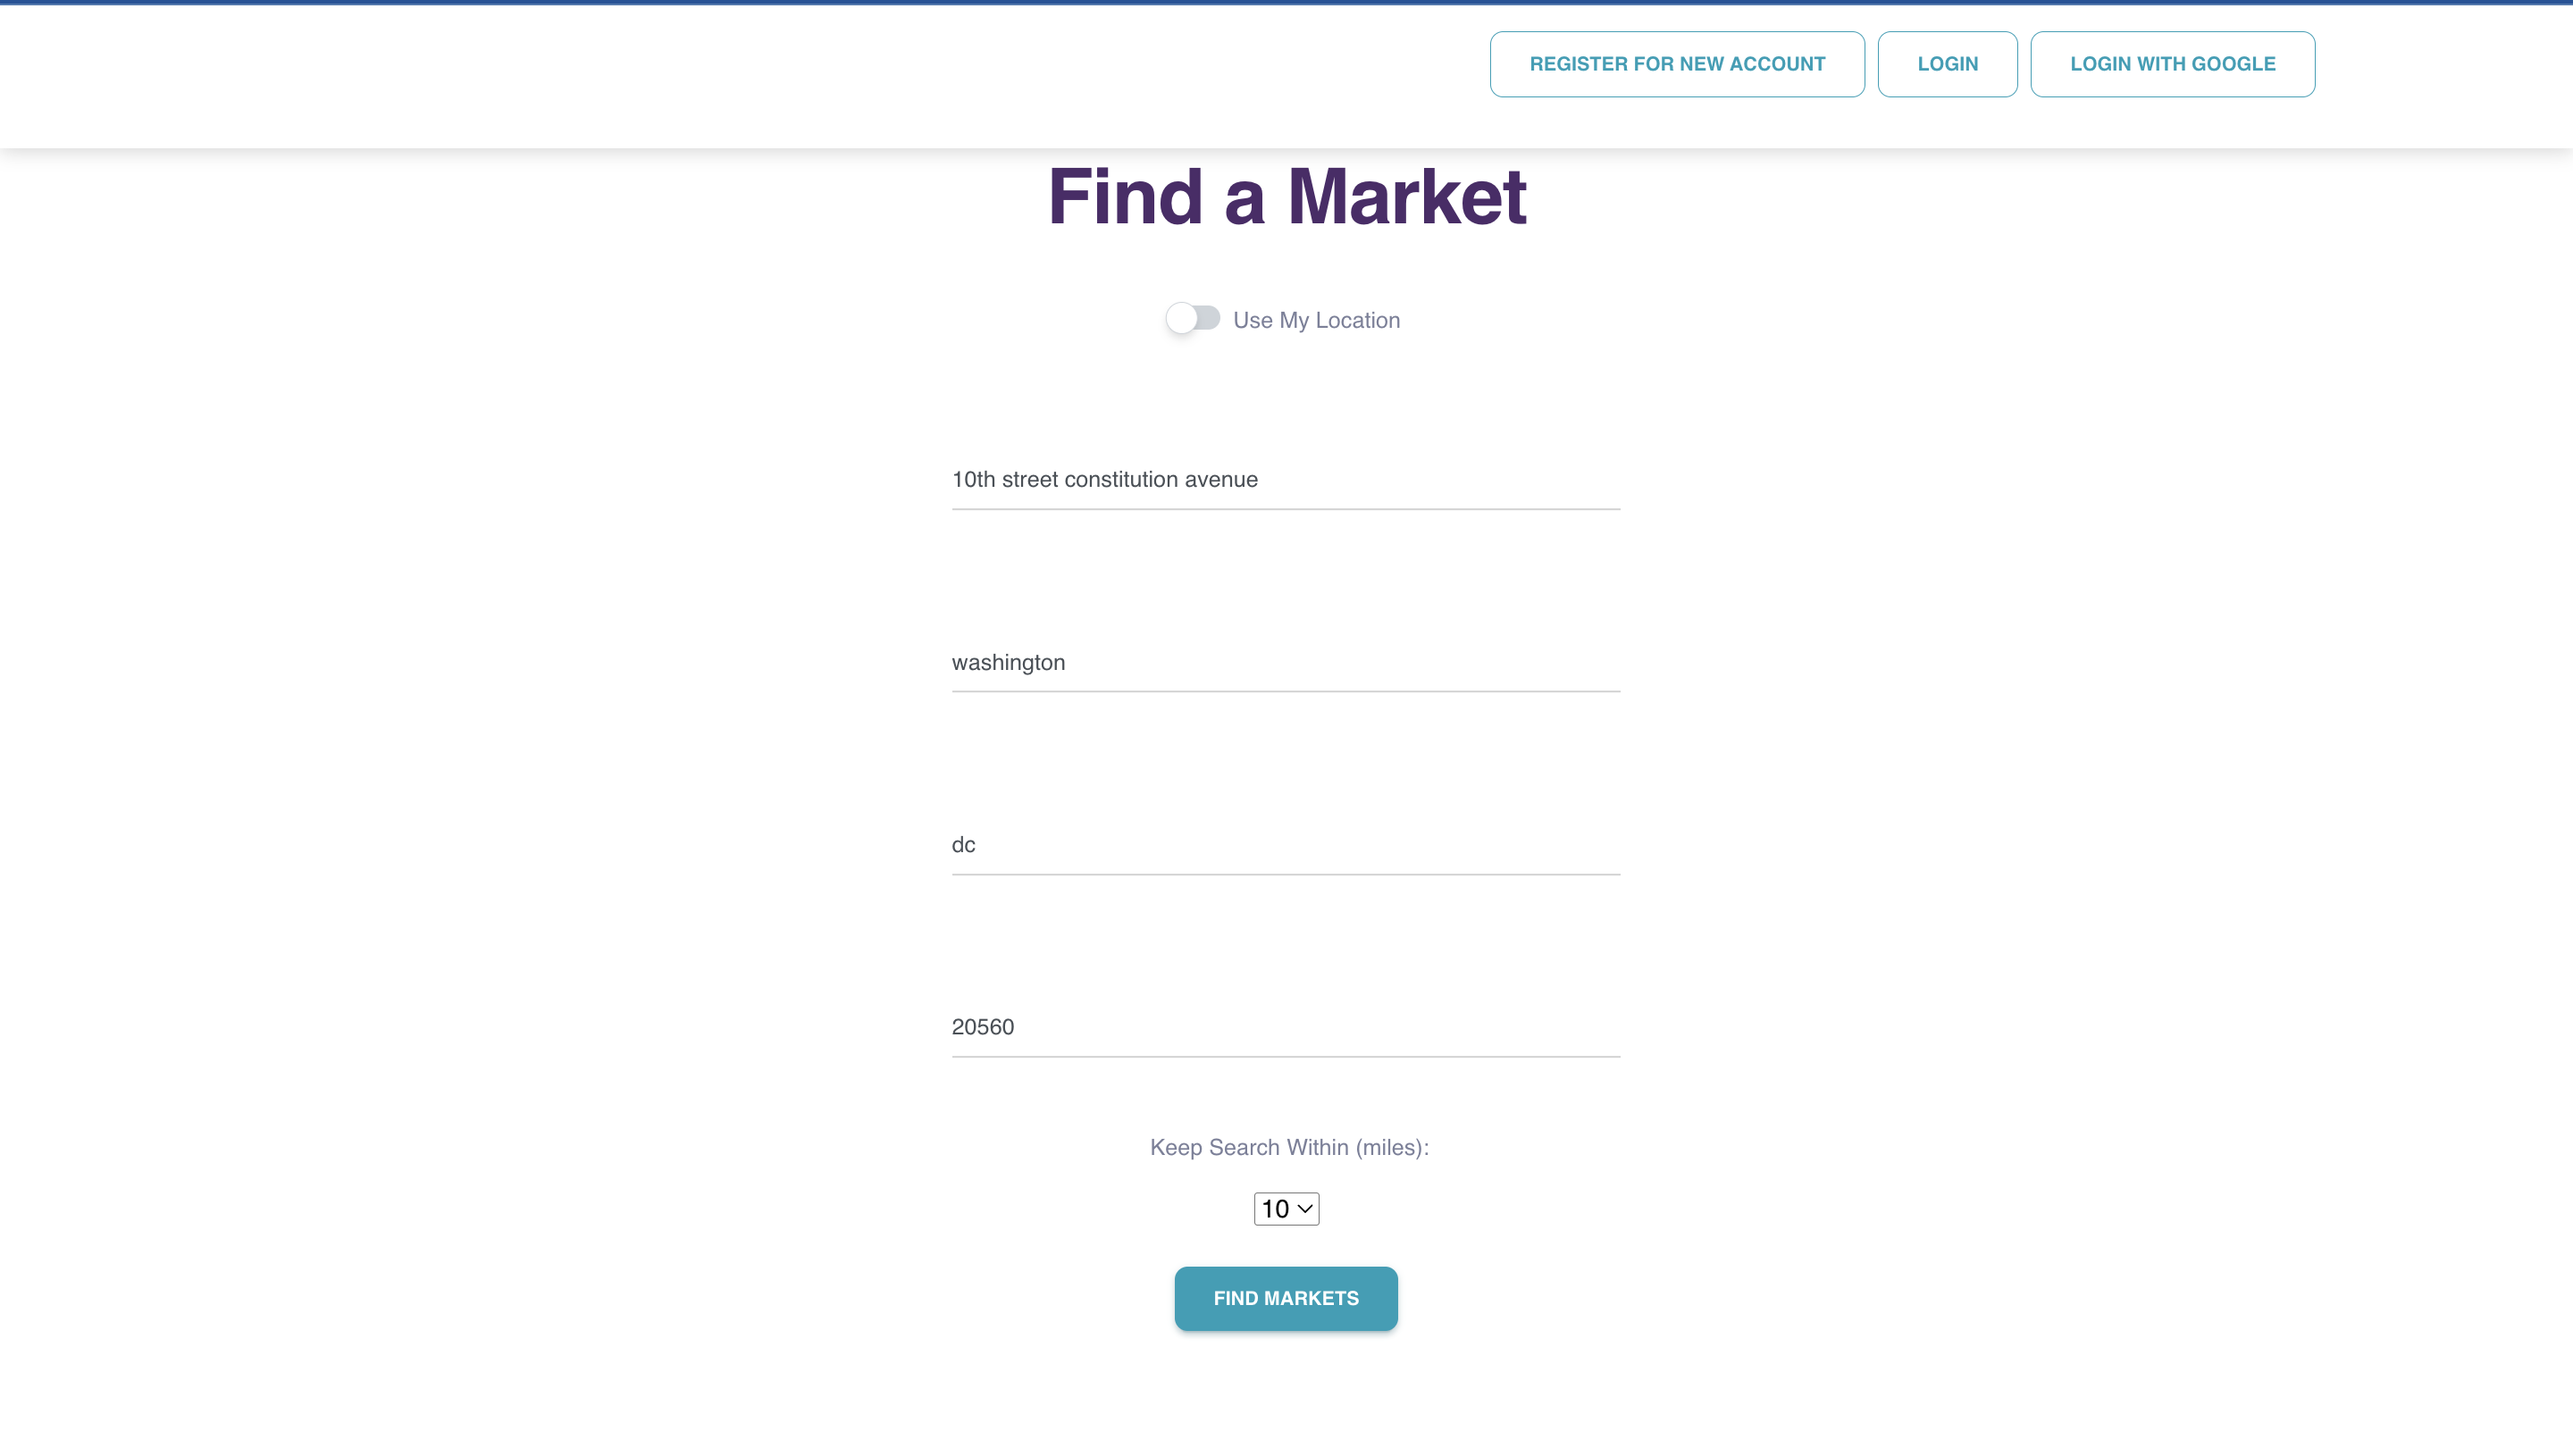
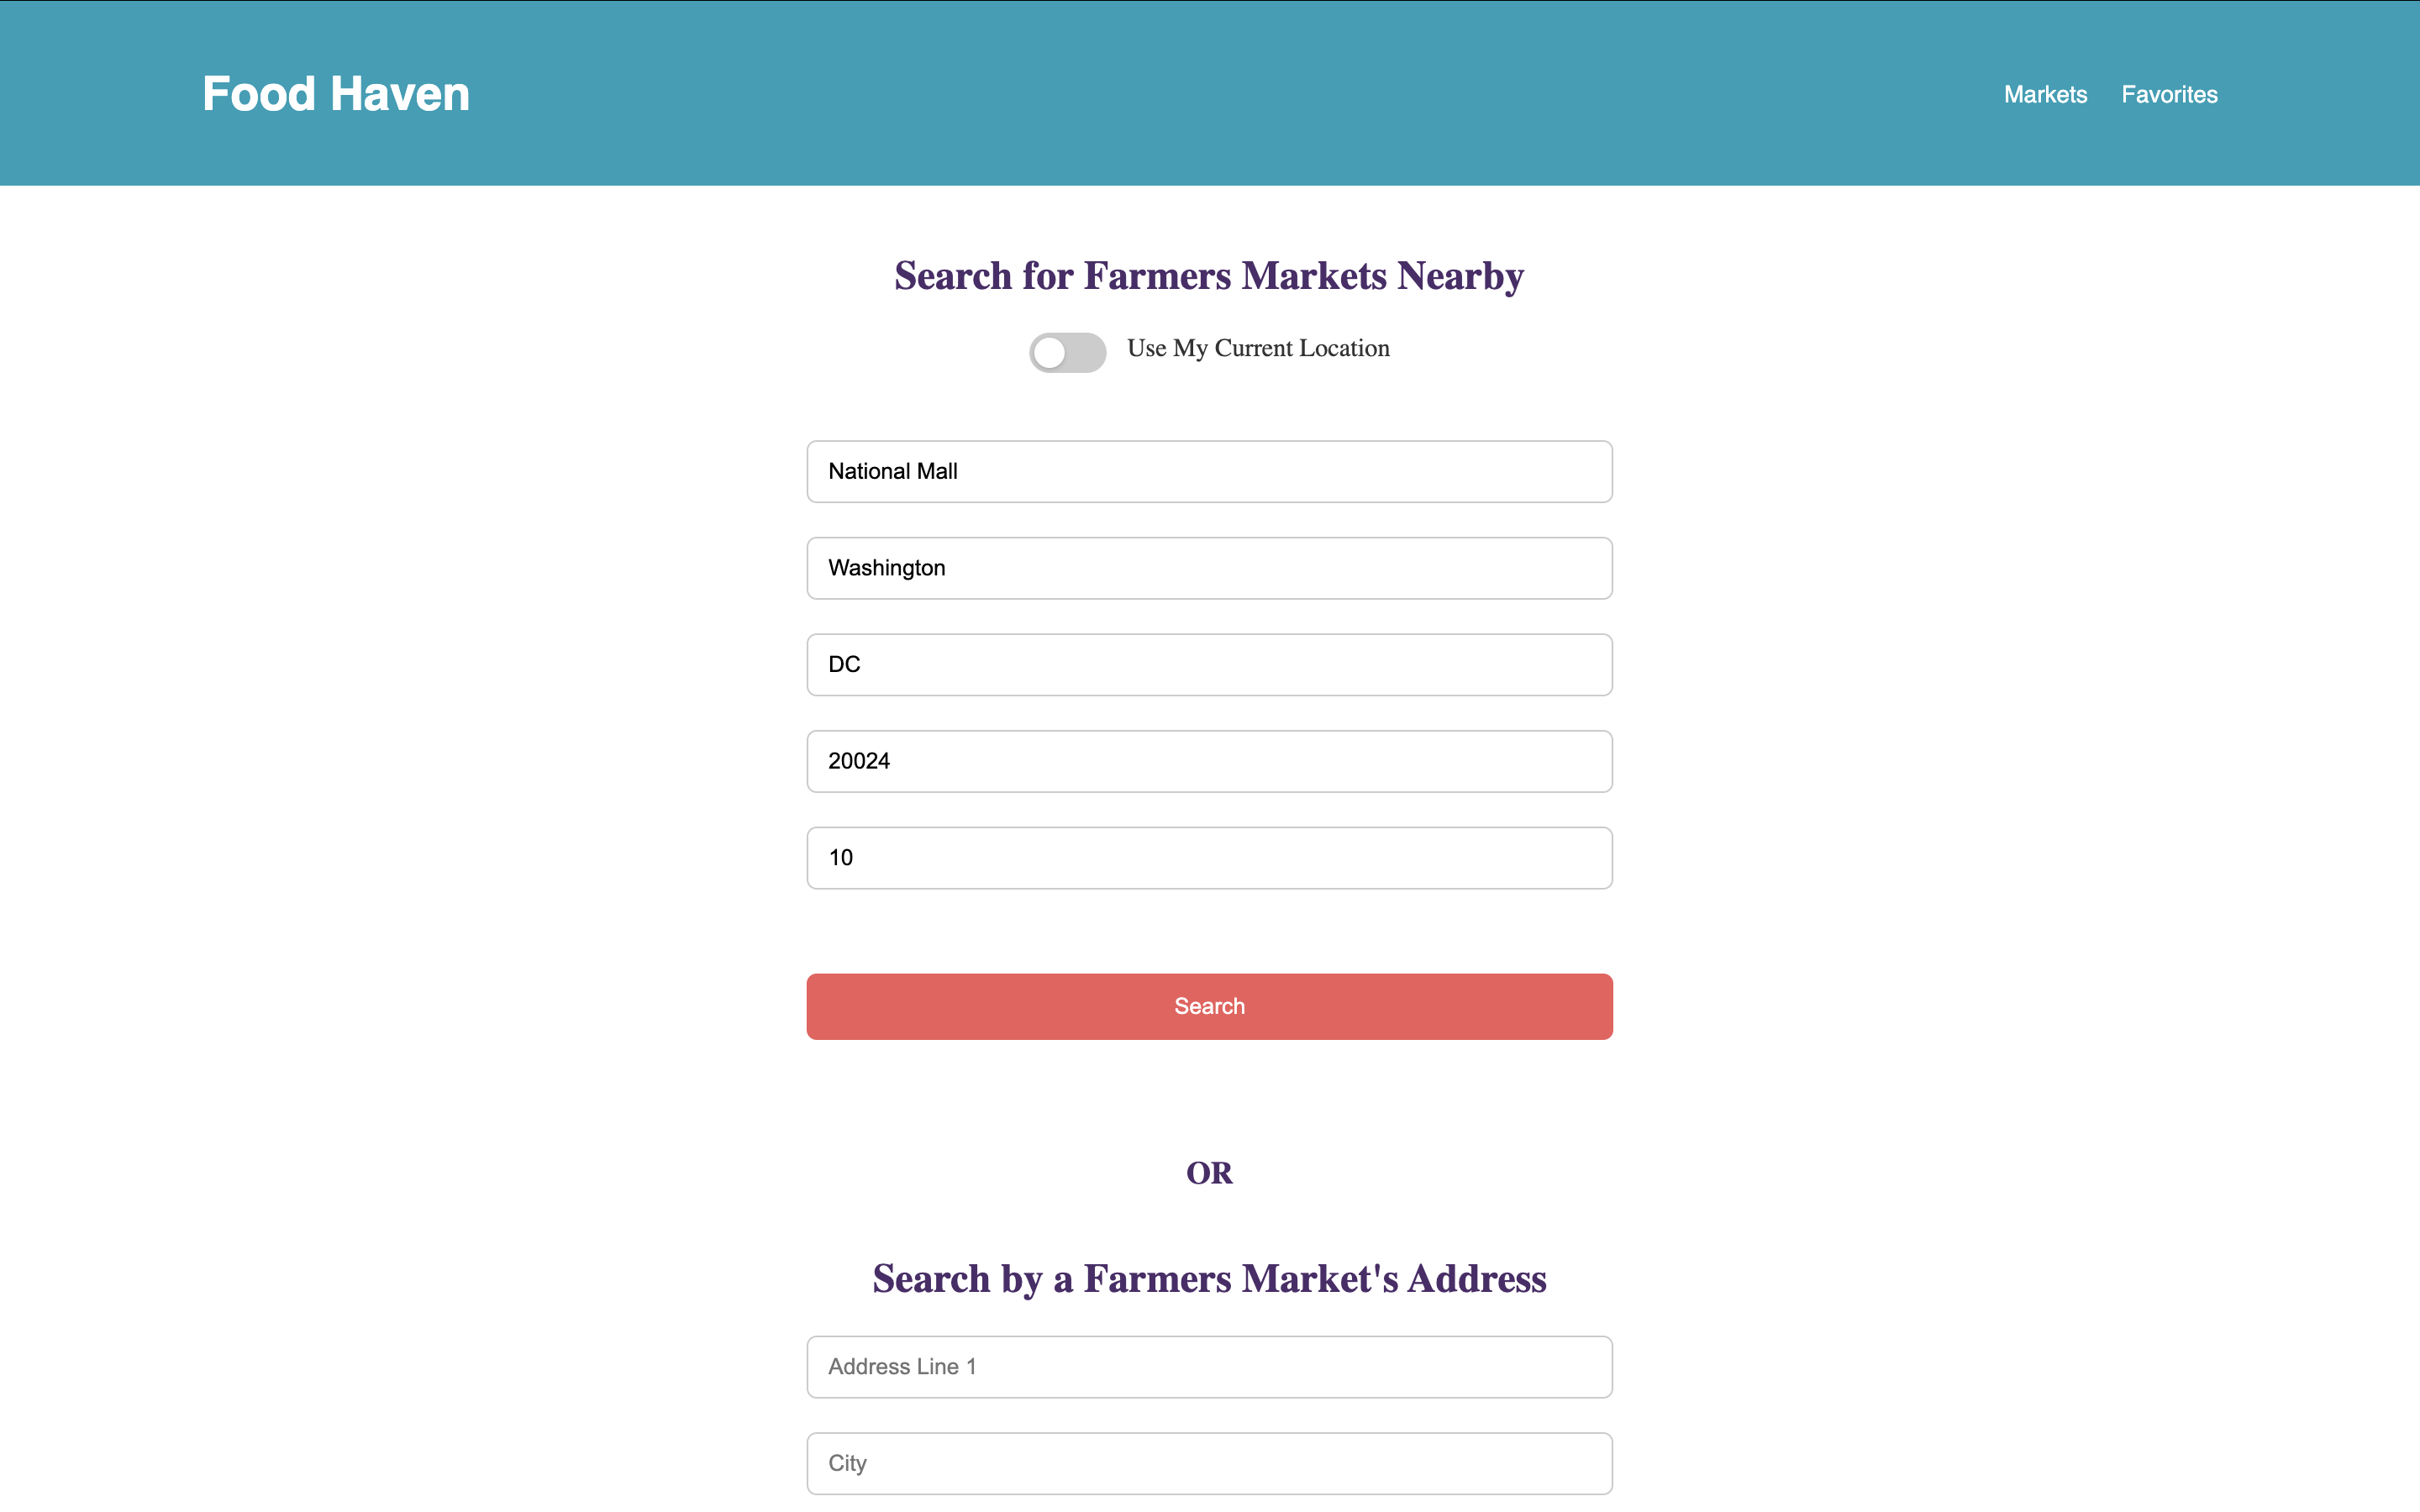
refactor foodhaven project on portfolio page

diff --git a/src/portfolio.jsx b/src/portfolio.jsx
@@ -16,6 +16,9 @@ export default function Portfolio() {
             <a className="inline-flex items-center justify-center" target="_blank" rel="noopener" href="https://github.com/orgs/FoodHaven/repositories">
               <img className="w-auto h-[clamp(4rem,3vw,8rem)] rounded-full" src="images/github-mark-white.png" alt="Github" />
             </a>
+            <a className="inline-flex items-center justify-center" target="_blank" rel="noopener" href="https://foodhaven-one.vercel.app//">
+              <span className='w-auto rounded-full text-center text-white text-[clamp(1rem,1.5vw,4rem)]'>Live Demo</span>
+            </a>
           </div>
           <div className="flex items-center justify-center">
             <p className="text-[clamp(1rem,1.5vw,4rem)] place-self-center text-center text-wrap w-8/10 pt-[clamp(4vh,8vh,10vh)]">
@@ -33,29 +36,29 @@ export default function Portfolio() {
                 <div className="flex items-center justify-center w-auto">
                   <img src="images/Ruby_logo.svg" className="absolute bottom-1/1 w-auto h-[clamp(100px,20%,200px)]"></img>
                   <p className="absolute text-center top-1/1 mt-5">Ruby</p>
-                  <div id="carouselcontrols" className="!md:hidden">
-                    <button onClick={() => scrollToId("foodtech4")} className="btn btn-circle">&#8249;</button>
-                    <button onClick={() => scrollToId("foodtech2")} className="btn btn-circle">&#8250;</button>
+                  <div className="carouselcontrols md:hidden absolute inset-0 flex items-center justify-between px-20 pointer-events-none">
+                    <button onClick={() => scrollToId("foodtech4")} className="btn btn-circle pointer-events-auto">&#8249;</button>
+                    <button onClick={() => scrollToId("foodtech2")} className="btn btn-circle pointer-events-auto">&#8250;</button>
                   </div>
                 </div>
               </div>
               <div id="foodtech2" className="relative carousel-item">
                 <div className="flex items-center justify-center w-auto">
-                  <img src="images/Ruby_On_Rails_Logo.svg.png" className="absolute bottom-1/1 w-auto h-[clamp(80px,20%,200px)]"></img>
-                  <p className="absolute text-center top-1/1 mt-5">Ruby on Rails</p>
-                  <div id="carouselcontrols" className="!md:hidden">
-                    <button onClick={() => scrollToId("foodtech1")} className="btn btn-circle">&#8249;</button>
-                    <button onClick={() => scrollToId("foodtech3")} className="btn btn-circle">&#8250;</button>
+                  <img src="images/sinatra_logo.png" className="absolute bottom-1/1 w-auto h-[clamp(100px,20%,200px)]"></img>
+                  <p className="absolute text-center top-1/1 mt-5">Sinatra</p>
+                  <div className="carouselcontrols md:hidden absolute inset-0 flex items-center justify-between px-20 pointer-events-none">
+                    <button onClick={() => scrollToId("foodtech1")} className="btn btn-circle pointer-events-auto">&#8249;</button>
+                    <button onClick={() => scrollToId("foodtech3")} className="btn btn-circle pointer-events-auto">&#8250;</button>
                   </div>
                 </div>
               </div>
               <div id="foodtech3" className="relative carousel-item">
                 <div className="flex items-center justify-center w-auto">
-                  <img src="images/sinatra_logo.png" className="absolute bottom-1/1 w-auto h-[clamp(100px,20%,200px)]"></img>
-                  <p className="absolute text-center top-1/1 mt-5">Sinatra</p>
-                  <div id="carouselcontrols" className="!md:hidden">
-                    <button onClick={() => scrollToId("foodtech2")} className="btn btn-circle">&#8249;</button>
-                    <button onClick={() => scrollToId("foodtech4")} className="btn btn-circle">&#8250;</button>
+                  <img src="images/React-icon.svg.png" className="absolute bottom-1/1 w-auto h-[clamp(80px,20%,200px)]"></img>
+                  <p className="absolute text-center top-1/1 mt-5">React</p>
+                  <div className="carouselcontrols md:hidden absolute inset-0 flex items-center justify-between px-20 pointer-events-none">
+                    <button onClick={() => scrollToId("foodtech2")} className="btn btn-circle pointer-events-auto">&#8249;</button>
+                    <button onClick={() => scrollToId("foodtech4")} className="btn btn-circle pointer-events-auto">&#8250;</button>
                   </div>
                 </div>
               </div>
@@ -63,9 +66,9 @@ export default function Portfolio() {
                 <div className="flex items-center justify-center w-auto">
                   <img src="images/javascript_logo.png" className="absolute bottom-1/1 w-auto h-[clamp(100px,20%,200px)]"></img>
                   <p className="absolute text-center top-1/1 mt-5">Javascript</p>
-                  <div id="carouselcontrols" className="!md:hidden">
-                    <button onClick={() => scrollToId("foodtech3")} className="btn btn-circle">&#8249;</button>
-                    <button onClick={() => scrollToId("foodtech5")} className="btn btn-circle">&#8250;</button>
+                  <div className="carouselcontrols md:hidden absolute inset-0 flex items-center justify-between px-20 pointer-events-none">
+                    <button onClick={() => scrollToId("foodtech3")} className="btn btn-circle pointer-events-auto">&#8249;</button>
+                    <button onClick={() => scrollToId("foodtech1")} className="btn btn-circle pointer-events-auto">&#8250;</button>
                   </div>
                 </div>
               </div>
@@ -73,46 +76,9 @@ export default function Portfolio() {
                 <div className="flex items-center justify-center w-auto">
                   <img src="images/google_maps_logo.png" className="absolute bottom-1/1 w-auto h-[clamp(100px,20%,200px)]"></img>
                   <p className="absolute text-center top-1/1 mt-5 w-3/4">Google Maps <br></br>Platform</p>
-                  <div id="carouselcontrols" className="!md:hidden">
-                    <button onClick={() => scrollToId("foodtech4")} className="btn btn-circle">&#8249;</button>
-                    <button onClick={() => scrollToId("foodtech6")} className="btn btn-circle">&#8250;</button>
-                  </div>
-                </div>
-              </div>
-              <div id="foodtech6" className="relative carousel-item">
-                <div className="flex items-center justify-center w-auto">
-                  <img src="images/bootstrap-logo.svg" className="absolute bottom-1/1 w-auto h-[clamp(100px,20%,200px)]"></img>
-                  <p className="absolute text-center top-1/1 mt-5">Bootstrap</p>
-                  <div id="carouselcontrols" className="!md:hidden">
-                    <button onClick={() => scrollToId("foodtech5")} className="btn btn-circle">&#8249;</button>
-                    <button onClick={() => scrollToId("foodtech7")} className="btn btn-circle">&#8250;</button>
-                  </div>
-                </div>
-              </div>
-              <div id="foodtech7" className="relative carousel-item">
-                <div className="flex items-center justify-center text-wrap w-auto">
-                  <p className="absolute text-center">AWS - <br></br>Elastic Beanstalk</p>
-                  <div id="carouselcontrols" className="!md:hidden">
-                    <button onClick={() => scrollToId("foodtech6")} className="btn btn-circle">&#8249;</button>
-                    <button onClick={() => scrollToId("foodtech8")} className="btn btn-circle">&#8250;</button>
-                  </div>
-                </div>
-              </div>
-              <div id="foodtech8" className="relative carousel-item">
-                <div className="flex items-center justify-center w-auto">
-                  <p className="absolute text-center">AWS - EC2</p>
-                  <div id="carouselcontrols" className="!md:hidden">
-                    <button onClick={() => scrollToId("foodtech7")} className="btn btn-circle">&#8249;</button>
-                    <button onClick={() => scrollToId("foodtech9")} className="btn btn-circle">&#8250;</button>
-                  </div>
-                </div>
-              </div>
-              <div id="foodtech9" className="relative carousel-item">
-                <div className="flex items-center justify-center w-auto">
-                    <p className="absolute text-center">AWS - RDS</p>
-                  <div id="carouselcontrols" className="!md:hidden">
-                    <button onClick={() => scrollToId("foodtech8")} className="btn btn-circle">&#8249;</button>
-                    <button onClick={() => scrollToId("foodtech1")} className="btn btn-circle">&#8250;</button>
+                  <div className="carouselcontrols md:hidden absolute inset-0 flex items-center justify-between px-20 pointer-events-none">
+                    <button onClick={() => scrollToId("foodtech4")} className="btn btn-circle pointer-events-auto">&#8249;</button>
+                    <button onClick={() => scrollToId("foodtech6")} className="btn btn-circle pointer-events-auto">&#8250;</button>
                   </div>
                 </div>
               </div>
@@ -122,40 +88,46 @@ export default function Portfolio() {
             <div className="place-items-center justify-items-center carousel snap-x snap-mandatory overflow-hidden grid grid-flow-col-dense grid-cols-auto grid-rows-1 gap-x-1 *:text-[clamp(2rem,2vw,4rem)] h-lvh">
               <div id="fooddemo1" className="relative carousel-item w-screen h-screen">
                 <div className="flex items-center justify-center h-full">
-                  <img src="images/FoodHaven/FoodHaven_home_page.png" className="absolute w-auto h-[clamp(100px,80%,900px)]"></img>
-                  <p className="absolute text-center bottom-0">Home Page</p>
-                  <div id="carouselcontrols" className="!block !flex !absolute !justify-between !w-[90%]">
-                    <button onClick={() => scrollToId("fooddemo1")} className="disabled invisible"></button>
-                    <button onClick={() => scrollToId("fooddemo2")} className="btn btn-circle lg:!w-[6vh] lg:!h-[6vh]">&#8250;</button>
+                  <img src="images/FoodHaven/FoodHaven_Market_search.png" className="absolute max-h-[80vh] max-w-[92vw] w-auto h-auto object-contain"></img>
+                  <p className="absolute text-center bottom-0">Market Search</p>
+                  <div className="carouselcontrols absolute inset-0 flex items-center justify-between px-4 pointer-events-none">
+                    <button className="btn btn-circle invisible pointer-events-none lg:!w-[6vh] lg:!h-[6vh]" aria-hidden="true" tabIndex={-1}>
+                      &#8249;
+                    </button>
+                    <button
+                      onClick={() => scrollToId("fooddemo2")}
+                      className="btn btn-circle rounded-full pointer-events-auto bg-blue-500 hover:bg-blue-600 border-none text-white backdrop-blur-sm shadow-lgw-[3vh] sm:w-[4vh] md:w-[5vh] lg:w-[6vh] h-[3vh] sm:h-[4vh] md:h-[5vh] lg:h-[6vh] aspect-square p-0 flex items-center justify-center"
+                    >
+                      &#8250;
+                    </button>
                   </div>
                 </div>
               </div>
               <div id="fooddemo2" className="relative carousel-item w-screen h-screen">
                 <div className="flex items-center justify-center h-full">
-                  <img src="images/FoodHaven/FoodHaven_Market_search.png" className="absolute w-auto h-[clamp(100px,80%,900px)]"></img>
-                  <p className="absolute text-center bottom-0">Market Search</p>
-                  <div id="carouselcontrols" className="!block !flex !absolute !justify-between !w-[90%]">
-                    <button onClick={() => scrollToId("fooddemo1")} className="btn btn-circle lg:!w-[6vh] lg:!h-[6vh]">&#8249;</button>
-                    <button onClick={() => scrollToId("fooddemo3")} className="btn btn-circle lg:!w-[6vh] lg:!h-[6vh]">&#8250;</button>
+                  <img src="images/FoodHaven/FoodHaven_Market_search_results.png" className="absolute max-h-[80vh] max-w-[92vw] w-auto h-auto object-contain"></img>
+                  <p className="absolute text-center bottom-0">Results</p>
+                  <div className="carouselcontrols absolute inset-0 flex items-center justify-between px-4 pointer-events-none">
+                    <button onClick={() => scrollToId("fooddemo1")} className="btn btn-circle rounded-full pointer-events-auto bg-blue-500 hover:bg-blue-600 border-none text-white backdrop-blur-sm shadow-lgw-[3vh] sm:w-[4vh] md:w-[5vh] lg:w-[6vh] h-[3vh] sm:h-[4vh] md:h-[5vh] lg:h-[6vh] aspect-square p-0 flex items-center justify-center">
+                      &#8249;
+                    </button>
+                    <button onClick={() => scrollToId("fooddemo3")} className="btn btn-circle rounded-full pointer-events-auto bg-blue-500 hover:bg-blue-600 border-none text-white backdrop-blur-sm shadow-lgw-[3vh] sm:w-[4vh] md:w-[5vh] lg:w-[6vh] h-[3vh] sm:h-[4vh] md:h-[5vh] lg:h-[6vh] aspect-square p-0 flex items-center justify-center">
+                      &#8250;
+                    </button>
                   </div>
                 </div>
               </div>
               <div id="fooddemo3" className="relative carousel-item w-screen h-screen">
                 <div className="flex items-center justify-center h-full">
-                  <img src="images/FoodHaven/FoodHaven_Market_search_results.png" className="absolute w-auto h-[clamp(100px,80%,900px)]"></img>
-                  <p className="absolute text-center bottom-0">Results</p>
-                  <div id="carouselcontrols" className="!block !flex !absolute !justify-between !w-[90%]">
-                    <button onClick={() => scrollToId("fooddemo2")} className="btn btn-circle lg:!w-[6vh] lg:!h-[6vh]">&#8249;</button>
-                    <button onClick={() => scrollToId("fooddemo4")} className="btn btn-circle lg:!w-[6vh] lg:!h-[6vh]">&#8250;</button>
-                  </div>
-                </div>
-              </div>
-              <div id="fooddemo4" className="relative carousel-item w-screen h-screen">
-                <div className="flex items-center justify-center h-full">
-                  <img src="images/FoodHaven/FoodHaven_Directions.png" className="absolute w-auto h-[clamp(100px,80%,900px)]"></img>
+                  <img src="images/FoodHaven/FoodHaven_Directions.png" className="absolute max-h-[80vh] max-w-[92vw] w-auto h-auto object-contain"></img>
                   <p className="absolute text-center bottom-0">Directions for chosen market</p>
-                  <div id="carouselcontrols" className="!block !flex !absolute !justify-between !w-[90%]">
-                    <button onClick={() => scrollToId("fooddemo3")} className="btn btn-circle lg:!w-[6vh] lg:!h-[6vh]">&#8249;</button>
+                  <div className="carouselcontrols absolute inset-0 flex items-center justify-between px-4 pointer-events-none">
+                    <button onClick={() => scrollToId("fooddemo2")} className="btn btn-circle rounded-full pointer-events-auto bg-blue-500 hover:bg-blue-600 border-none text-white backdrop-blur-sm shadow-lgw-[3vh] sm:w-[4vh] md:w-[5vh] lg:w-[6vh] h-[3vh] sm:h-[4vh] md:h-[5vh] lg:h-[6vh] aspect-square p-0 flex items-center justify-center">
+                      &#8249;
+                    </button>
+                    <button onClick={() => scrollToId("fooddemo4")} className="btn btn-circle rounded-full pointer-events-auto bg-blue-500 hover:bg-blue-600 border-none text-white backdrop-blur-sm shadow-lgw-[3vh] sm:w-[4vh] md:w-[5vh] lg:w-[6vh] h-[3vh] sm:h-[4vh] md:h-[5vh] lg:h-[6vh] aspect-square p-0 flex items-center justify-center">
+                      &#8250;
+                    </button>
                   </div>
                 </div>
               </div>
@@ -183,9 +155,9 @@ export default function Portfolio() {
                 <div className="flex items-center justify-center w-auto">
                   <img src="images/Ruby_logo.svg" className="absolute bottom-1/1 w-auto h-[clamp(100px,20%,200px)]"></img>
                   <p className="absolute text-center top-1/1 mt-5">Ruby</p>
-                  <div id="carouselcontrols" className="!md:hidden">
-                    <button onClick={() => scrollToId("grateful4")} className="btn btn-circle">&#8249;</button>
-                    <button onClick={() => scrollToId("grateful2")} className="btn btn-circle">&#8250;</button>
+                  <div className="carouselcontrols md:hidden absolute inset-0 flex items-center justify-between px-20 pointer-events-none">
+                    <button onClick={() => scrollToId("grateful4")} className="btn btn-circle pointer-events-auto">&#8249;</button>
+                    <button onClick={() => scrollToId("grateful2")} className="btn btn-circle pointer-events-auto">&#8250;</button>
                   </div>
                 </div>
               </div>
@@ -193,9 +165,9 @@ export default function Portfolio() {
                 <div className="flex items-center justify-center w-auto">
                   <img src="images/Ruby_On_Rails_Logo.svg.png" className="absolute bottom-1/1 w-auto h-[clamp(80px,20%,200px)]"></img>
                   <p className="absolute text-center top-1/1 mt-5">Ruby on Rails</p>
-                  <div id="carouselcontrols" className="!md:hidden">
-                    <button onClick={() => scrollToId("grateful1")} className="btn btn-circle">&#8249;</button>
-                    <button onClick={() => scrollToId("grateful3")} className="btn btn-circle">&#8250;</button>
+                  <div className="carouselcontrols md:hidden absolute inset-0 flex items-center justify-between px-20 pointer-events-none">
+                    <button onClick={() => scrollToId("grateful1")} className="btn btn-circle pointer-events-auto">&#8249;</button>
+                    <button onClick={() => scrollToId("grateful3")} className="btn btn-circle pointer-events-auto">&#8250;</button>
                   </div>
                 </div>
               </div>
@@ -203,9 +175,9 @@ export default function Portfolio() {
                 <div className="flex items-center justify-center w-auto">
                   <img src="images/javascript_logo.png" className="absolute bottom-1/1 w-auto h-[clamp(100px,20%,200px)]"></img>
                   <p className="absolute text-center top-1/1 mt-5">Javascript</p>
-                  <div id="carouselcontrols" className="!md:hidden">
-                    <button onClick={() => scrollToId("grateful2")} className="btn btn-circle">&#8249;</button>
-                    <button onClick={() => scrollToId("grateful1")} className="btn btn-circle">&#8250;</button>
+                  <div className="carouselcontrols md:hidden absolute inset-0 flex items-center justify-between px-20 pointer-events-none">
+                    <button onClick={() => scrollToId("grateful2")} className="btn btn-circle pointer-events-auto">&#8249;</button>
+                    <button onClick={() => scrollToId("grateful1")} className="btn btn-circle pointer-events-auto">&#8250;</button>
                   </div>
                 </div>
               </div>